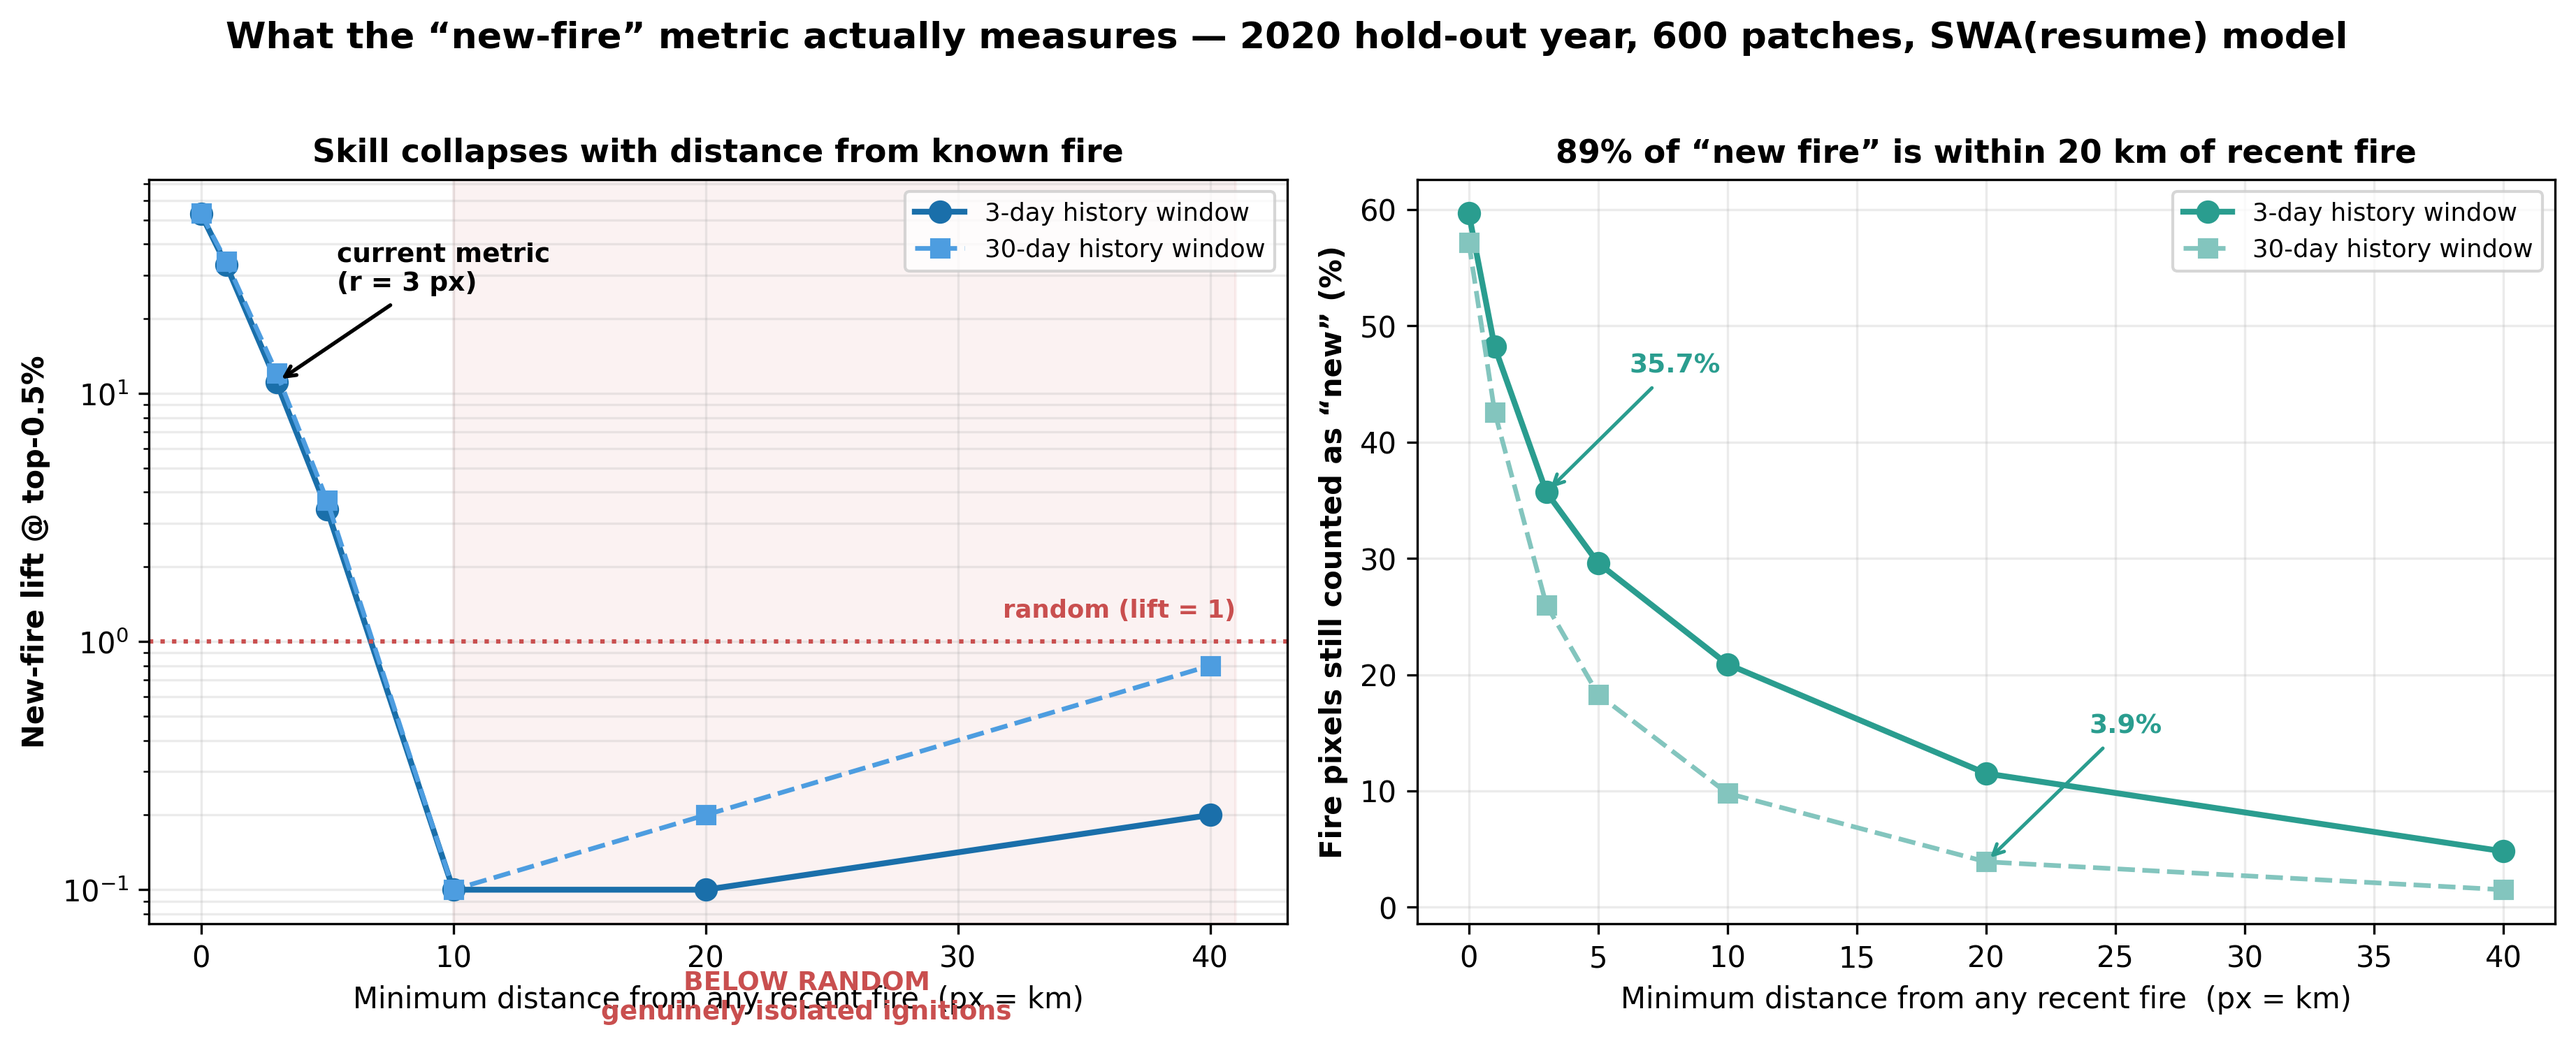
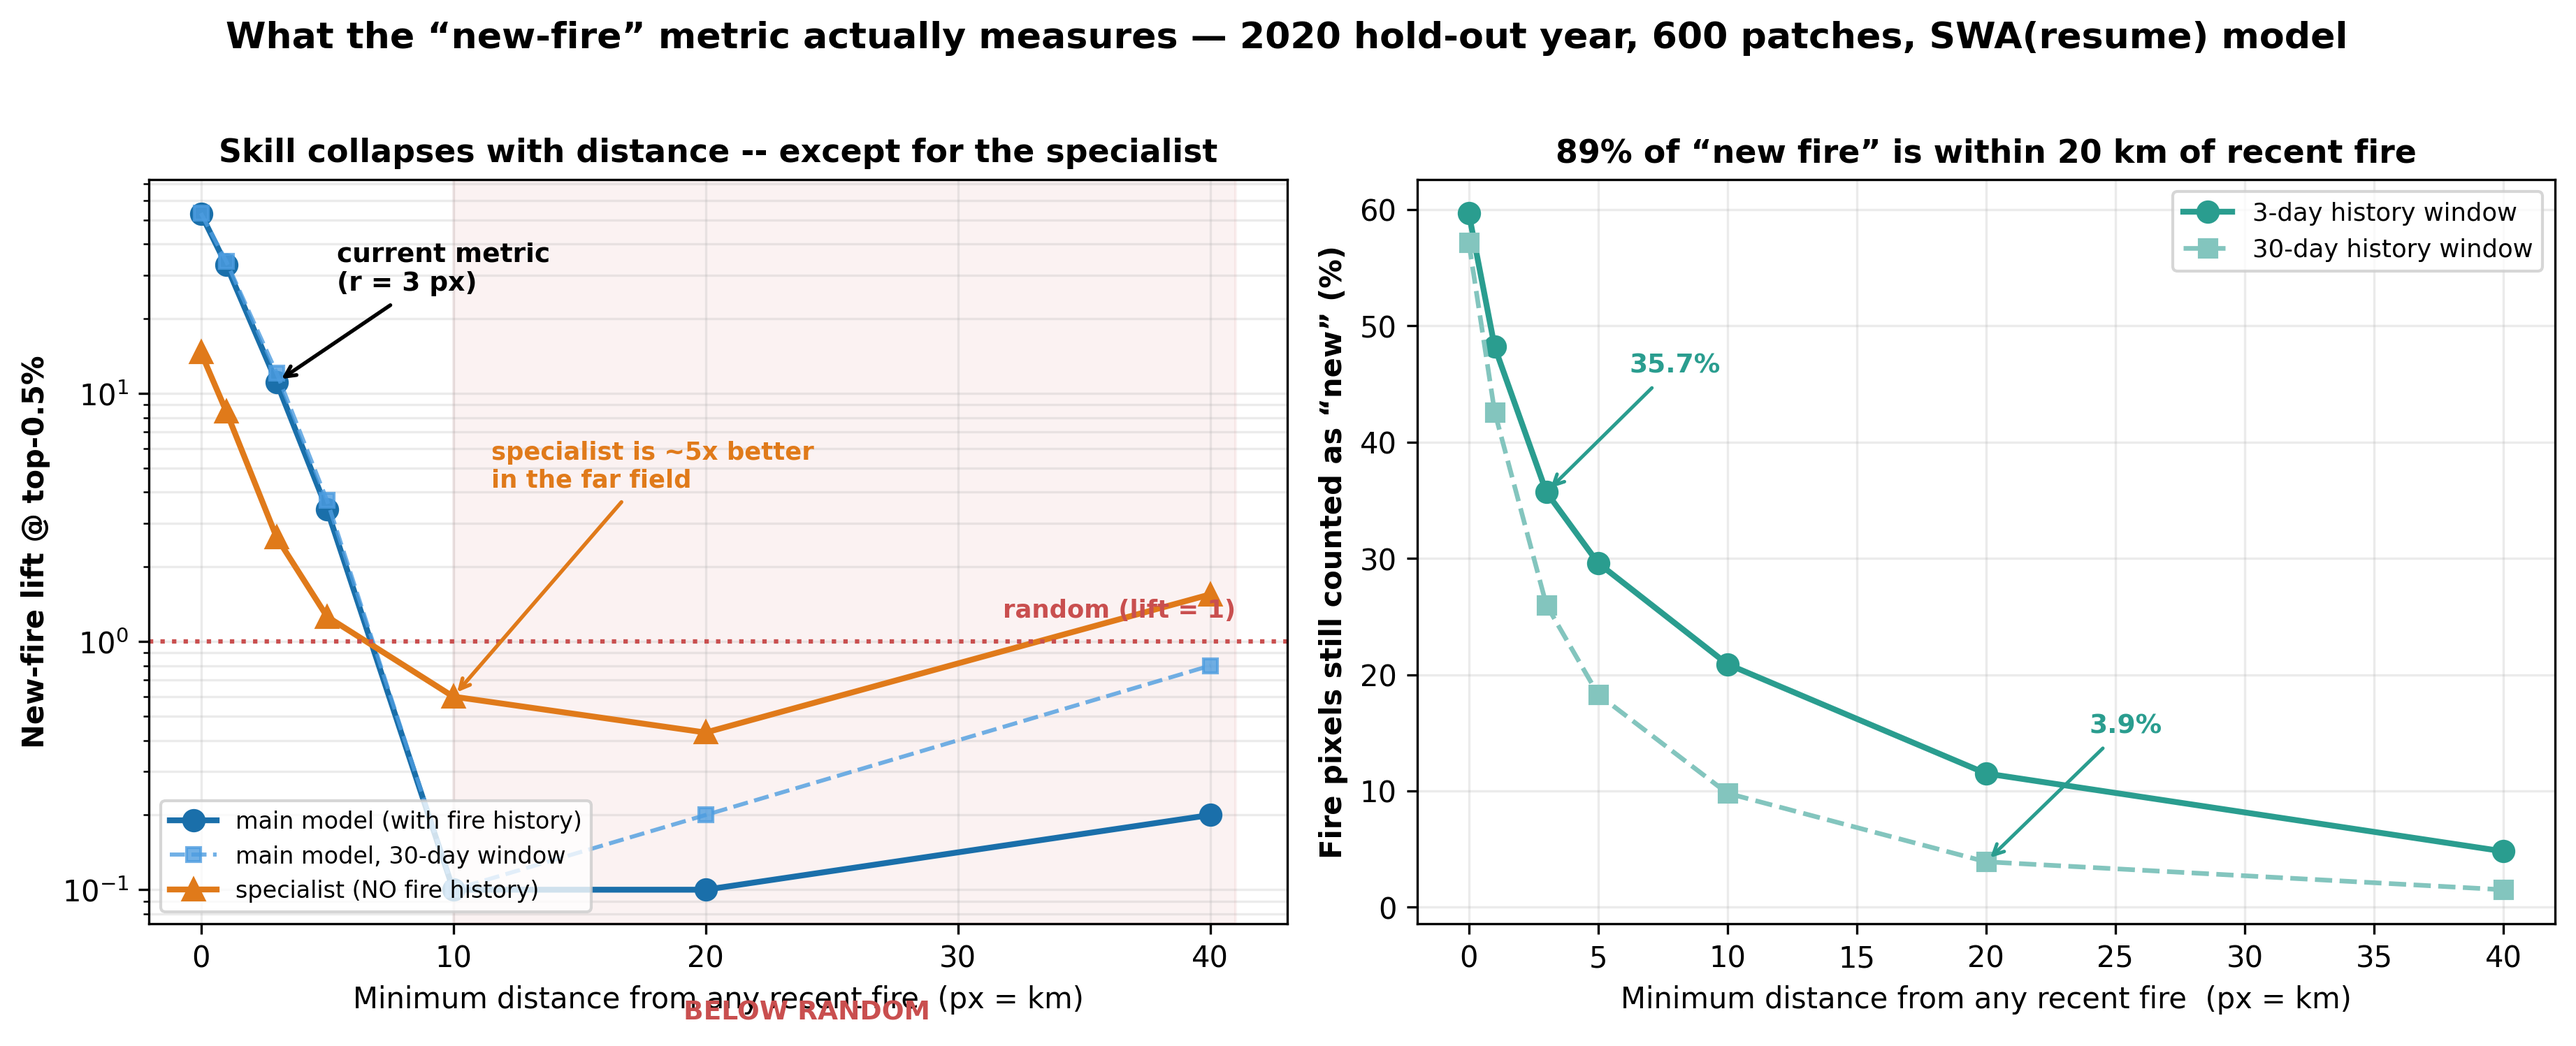
Add specialist far-field curve to distance-decay figure; sync dev log

diff --git a/figures/make_summary_figures.py b/figures/make_summary_figures.py
@@ -1,0 +1,142 @@
+"""Two publication figures summarising the final evaluation.
+
+(a) fig_model_progression.png -- 2020 test AUC-PR and near-field new-fire lift
+    for every validated checkpoint, in the order they were developed. Only
+    numbers confirmed on the 2020 HOLD-OUT year are plotted; validation-only
+    (val_ap) numbers are deliberately excluded, because this project repeatedly
+    found them non-predictive of test performance.
+
+(b) fig_newfire_distance_decay.png -- new-fire lift as a function of how far a
+    fire pixel must be from any recent fire to count as "new". This is the
+    headline diagnostic: skill collapses with distance and falls BELOW random
+    (lift < 1) beyond ~10 km, showing the model predicts near-field spread
+    rather than genuinely new ignition.
+
+Numbers are hardcoded from the evaluation logs (job 1764905 / 1765197 / 1765273)
+so the figures can be regenerated without a GPU or the data cubes.
+"""
+import matplotlib
+matplotlib.use("Agg")
+import matplotlib.pyplot as plt
+import numpy as np
+
+OUT_DIR = "figures"
+
+# ---------------------------------------------------------------- (a)
+# label, 2020 test AUC-PR, near-field new-fire lift @top-0.5%, is_final
+MODELS = [
+    ("ConvLSTM\n256px\n(early)",              0.3664,  4.4, False),
+    ("XGBoost\n(21 feat.)",                   0.0611,  np.nan, False),
+    ("ps128_final",                           0.4020,  5.6, False),
+    ("ps384_final\n(baseline)",               0.4230, 11.9, False),
+    ("+ new-fire\nsampler +\nfh-dropout",     0.4368, 12.6, False),
+    ("+ SWA\n(combo)",                        0.4429, 12.6, False),
+    ("+ longer\ntraining",                    0.4459, 14.1, False),
+    ("+ SWA\n(final)",                        0.4485, 14.5, True),
+]
+
+fig, (ax1, ax2) = plt.subplots(2, 1, figsize=(11, 8.2), sharex=True,
+                               gridspec_kw={"height_ratios": [1, 0.85], "hspace": 0.12})
+x = np.arange(len(MODELS))
+ap = [m[1] for m in MODELS]
+lift = [m[2] for m in MODELS]
+final = [m[3] for m in MODELS]
+cols = ["#c94f4f" if m[0].startswith("XGBoost") else ("#1a6faa" if f else "#7fb3d5")
+        for m, f in zip(MODELS, final)]
+
+b1 = ax1.bar(x, ap, color=cols, edgecolor="black", linewidth=0.6, width=0.68)
+for xi, v in zip(x, ap):
+    ax1.text(xi, v + 0.008, f"{v:.4f}", ha="center", fontsize=8.5, fontweight="bold")
+ax1.set_ylabel("AUC-PR  (2020 hold-out test)", fontsize=10.5, fontweight="bold")
+ax1.set_ylim(0, 0.52)
+ax1.grid(axis="y", alpha=0.25, zorder=0)
+ax1.set_axisbelow(True)
+ax1.axhline(0.4230, ls="--", lw=1.0, color="#444",
+            label="ps384_final baseline (0.4230)")
+ax1.legend(fontsize=8.5, loc="upper left", framealpha=0.9)
+ax1.set_title("FireCastNet — next-3-day fire risk over Australia\n"
+              "Validated on the 2020 hold-out year (n=1500 patches, 188.6M land pixels, "
+              "base rate 0.175%)",
+              fontsize=12, fontweight="bold", pad=12)
+
+b2 = ax2.bar(x, lift, color=cols, edgecolor="black", linewidth=0.6, width=0.68)
+for xi, v in zip(x, lift):
+    if np.isfinite(v):
+        ax2.text(xi, v + 0.25, f"{v:.1f}×", ha="center", fontsize=8.5, fontweight="bold")
+    else:
+        ax2.text(xi, 0.4, "n/a", ha="center", fontsize=8, color="#777")
+ax2.set_ylabel("Near-field new-fire lift\n@ top-0.5%", fontsize=10.5, fontweight="bold")
+ax2.set_ylim(0, 17)
+ax2.grid(axis="y", alpha=0.25)
+ax2.set_axisbelow(True)
+ax2.set_xticks(x)
+ax2.set_xticklabels([m[0] for m in MODELS], fontsize=8.5)
+ax2.annotate("+6.0% AUC-PR\n+21.8% lift",
+             xy=(7, 14.5), xytext=(5.55, 8.4), fontsize=9, fontweight="bold",
+             color="#1a6faa",
+             arrowprops=dict(arrowstyle="->", color="#1a6faa", lw=1.4))
+fig.text(0.5, 0.012,
+         '"Near-field" lift uses the r=3 px / t−3 definition; see the companion figure — '
+         "at this radius the metric largely measures fire-front spread, not new ignition.",
+         ha="center", fontsize=8.2, style="italic", color="#444")
+fig.savefig(f"{OUT_DIR}/fig_model_progression.png", dpi=300,
+            bbox_inches="tight", facecolor="white")
+print(f"wrote {OUT_DIR}/fig_model_progression.png")
+plt.close(fig)
+
+# ---------------------------------------------------------------- (b)
+radii = np.array([0, 1, 3, 5, 10, 20, 40])
+lift_3d = np.array([53.0, 33.0, 11.1, 3.4, 0.1, 0.1, 0.2])
+lift_30d = np.array([53.3, 34.1, 12.1, 3.7, 0.1, 0.2, 0.8])
+share_3d = np.array([59.7, 48.2, 35.7, 29.6, 20.9, 11.5, 4.8])
+share_30d = np.array([57.2, 42.6, 26.0, 18.3, 9.8, 3.9, 1.5])
+
+fig, (axA, axB) = plt.subplots(1, 2, figsize=(12.4, 4.9))
+
+spec_3d = np.array([14.63, 8.48, 2.63, 1.26, 0.60, 0.43, 1.55])
+axA.plot(radii, lift_3d, "o-", lw=2, ms=7, color="#1a6faa",
+         label="main model (with fire history)")
+axA.plot(radii, lift_30d, "s--", lw=1.4, ms=5, color="#4d9de0", alpha=0.8,
+         label="main model, 30-day window")
+axA.plot(radii, spec_3d, "^-", lw=2, ms=7, color="#e07a1a",
+         label="specialist (NO fire history)")
+axA.axhline(1.0, color="#c94f4f", lw=1.5, ls=":")
+axA.text(41, 1.25, "random (lift = 1)", color="#c94f4f", fontsize=8.5,
+         ha="right", fontweight="bold")
+axA.axvspan(10, 41, color="#c94f4f", alpha=0.07)
+axA.text(24, 0.030, "BELOW RANDOM", ha="center",
+         fontsize=9, color="#c94f4f", fontweight="bold")
+axA.annotate("specialist is ~5x better\nin the far field", xy=(10, 0.60),
+             xytext=(11.5, 4.2), fontsize=8.5, fontweight="bold", color="#e07a1a",
+             arrowprops=dict(arrowstyle="->", lw=1.3, color="#e07a1a"))
+axA.annotate("current metric\n(r = 3 px)", xy=(3, 11.1), xytext=(5.4, 26),
+             fontsize=9, fontweight="bold",
+             arrowprops=dict(arrowstyle="->", lw=1.3, color="black"))
+axA.set_yscale("log")
+axA.set_xlabel("Minimum distance from any recent fire  (px = km)", fontsize=10)
+axA.set_ylabel("New-fire lift @ top-0.5%", fontsize=10, fontweight="bold")
+axA.set_title("Skill collapses with distance -- except for the specialist",
+              fontsize=11, fontweight="bold")
+axA.grid(alpha=0.25, which="both")
+axA.legend(fontsize=8, loc="lower left")
+
+axB.plot(radii, share_3d, "o-", lw=2, ms=7, color="#2a9d8f", label="3-day history window")
+axB.plot(radii, share_30d, "s--", lw=1.6, ms=6, color="#83c5be", label="30-day history window")
+axB.annotate("35.7%", xy=(3, 35.7), xytext=(6.2, 46), fontsize=9, fontweight="bold",
+             color="#2a9d8f", arrowprops=dict(arrowstyle="->", lw=1.2, color="#2a9d8f"))
+axB.annotate("3.9%", xy=(20, 3.9), xytext=(24, 15), fontsize=9, fontweight="bold",
+             color="#2a9d8f", arrowprops=dict(arrowstyle="->", lw=1.2, color="#2a9d8f"))
+axB.set_xlabel("Minimum distance from any recent fire  (px = km)", fontsize=10)
+axB.set_ylabel("Fire pixels still counted as “new” (%)", fontsize=10, fontweight="bold")
+axB.set_title("89% of “new fire” is within 20 km of recent fire",
+              fontsize=11, fontweight="bold")
+axB.grid(alpha=0.25)
+axB.legend(fontsize=8.5)
+
+fig.suptitle("What the “new-fire” metric actually measures — 2020 hold-out year, "
+             "600 patches, SWA(resume) model",
+             fontsize=12.5, fontweight="bold", y=1.015)
+fig.tight_layout()
+fig.savefig(f"{OUT_DIR}/fig_newfire_distance_decay.png", dpi=300,
+            bbox_inches="tight", facecolor="white")
+print(f"wrote {OUT_DIR}/fig_newfire_distance_decay.png")

diff --git a/docs/DEVELOPMENT_LOG.md b/docs/DEVELOPMENT_LOG.md
@@ -1098,6 +1098,59 @@ similar strength" rule has held up three times.
 **`SWA(resume ep28,29,30)` therefore still stands as the best model**:
 0.4485 AUC-PR, 14.5x near-field lift. Nothing in this round beat it.
 
+## FINAL RESULT: the no-fire-history specialist DOES carry far-field signal (job 1766529)
+
+The specialist (`FIRE_HISTORY=0`, weather/terrain/lightning only) looked dead on
+`val_ap`: 0.0116 peak vs the main model's 0.51, a ~50x collapse, and it
+early-stopped at ep8 with a flat, trendless curve. Judged on `val_ap` it is a
+total failure. **But `val_ap` is the wrong metric for it by construction** --
+pooled AP is dominated by near-field pixels the specialist cannot see. Scored
+where it was actually designed to work (r>=10px, genuinely isolated ignition):
+
+### NEW-fire lift @ top-0.5%, far field
+| model | r=10px | r=20px | r=40px |
+|---|---|---|---|
+| main model SWA(resume) | 0.11 | 0.12 | 0.20 |
+| **specialist (no fire history)** | **0.60** | **0.43** | **1.55** |
+| prob-mean of the two | 0.07 | 0.06 | 0.23 |
+
+Specialist full grid at r=40px across windows: 1.55 / 2.33 / **3.44** / 1.98 /
+2.87 (3d/7d/14d/30d/90d) -- **above random**, the only configuration in the
+whole project to clear 1.0x on genuinely isolated ignitions.
+
+### Three conclusions
+1. **The far-field signal is real but weak.** 0.60 vs 0.11 at r=10px (46
+   new-fire px/patch, so not a small-sample artifact) is a robust ~5x
+   advantage. The r=40px numbers (1.55-3.44x) sit on 2-11 px/patch and are
+   correspondingly noisy -- treat the direction as real, the magnitude as
+   uncertain.
+2. **Naive prob-mean DESTROYS it** (0.07, worse than either member). The main
+   model's confident near-field predictions dominate the average and swamp the
+   specialist's weak far-field signal. Combining these two requires a
+   REGIME-SWITCHED rule -- use the specialist only where no recent fire is
+   within ~10km, the main model elsewhere -- not a blend. This is a different
+   failure mode from the earlier "weak member drags the pool" cases: here the
+   members are good at DISJOINT regimes, so averaging is the wrong operator
+   entirely.
+3. **This vindicates the earlier caution about judging it on `val_ap`.** A
+   model can be 50x worse on the pooled metric and still be the only thing
+   that works in the regime that matters. Same lesson as `val_ap_newfire` and
+   the OHEM inversion, in the opposite direction.
+
+### Corrected claim
+An earlier draft of the repo README stated the specialist "failed to learn at
+all ... indicating the remaining predictors do not contain sufficient signal
+for isolated ignition at this resolution." **That is wrong and was corrected
+before publication.** Weather/terrain/lightning DO contain far-field ignition
+signal; it is simply far too weak to register in a pooled metric dominated by
+near-field spread.
+
+### Next step if this work continues
+Build the regime-switched combiner (specialist where `fire_dist` indicates no
+fire within ~10km, main model otherwise) and evaluate at both radii. That is
+the single most promising untested idea left, and it needs no new training --
+both checkpoints already exist and are archived.
+
 ## Pitfalls
 - v1 `conv_lstm_lit.py` had a recency-weights bug (never applied on channels-first
   input) — fixed 2026-07-14; backup at `conv_lstm_lit.py.bak_pre_recencyfix`.
